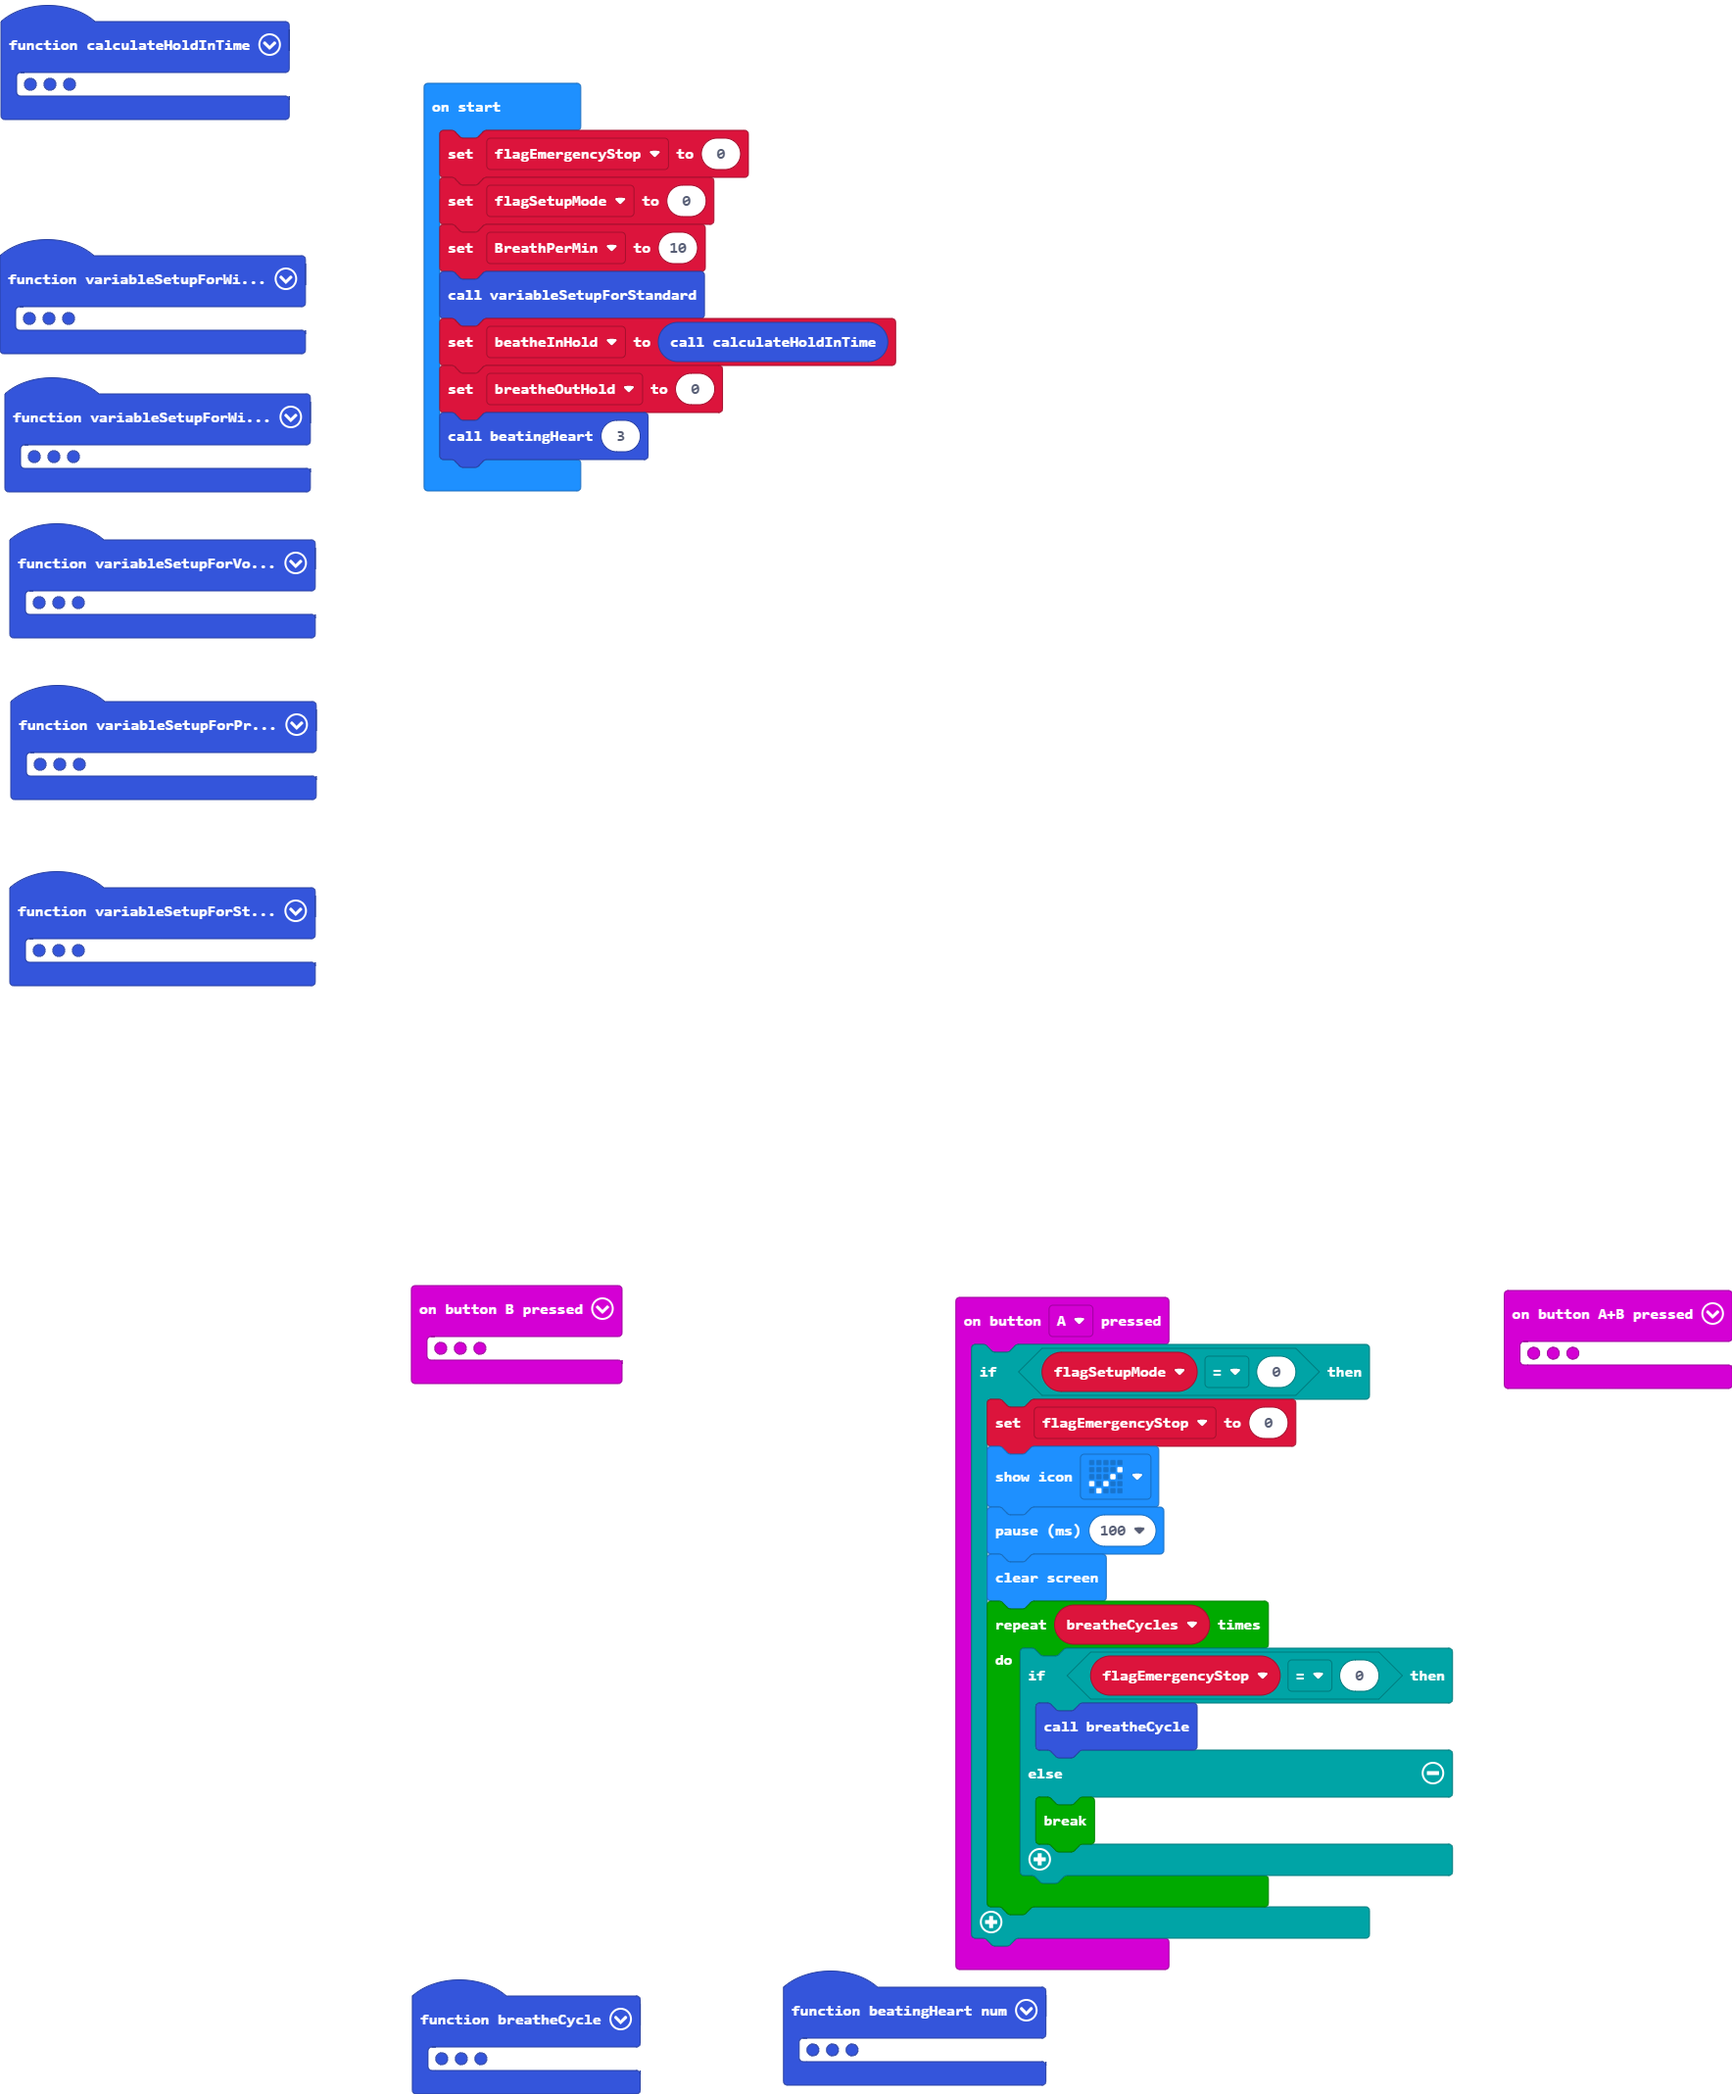
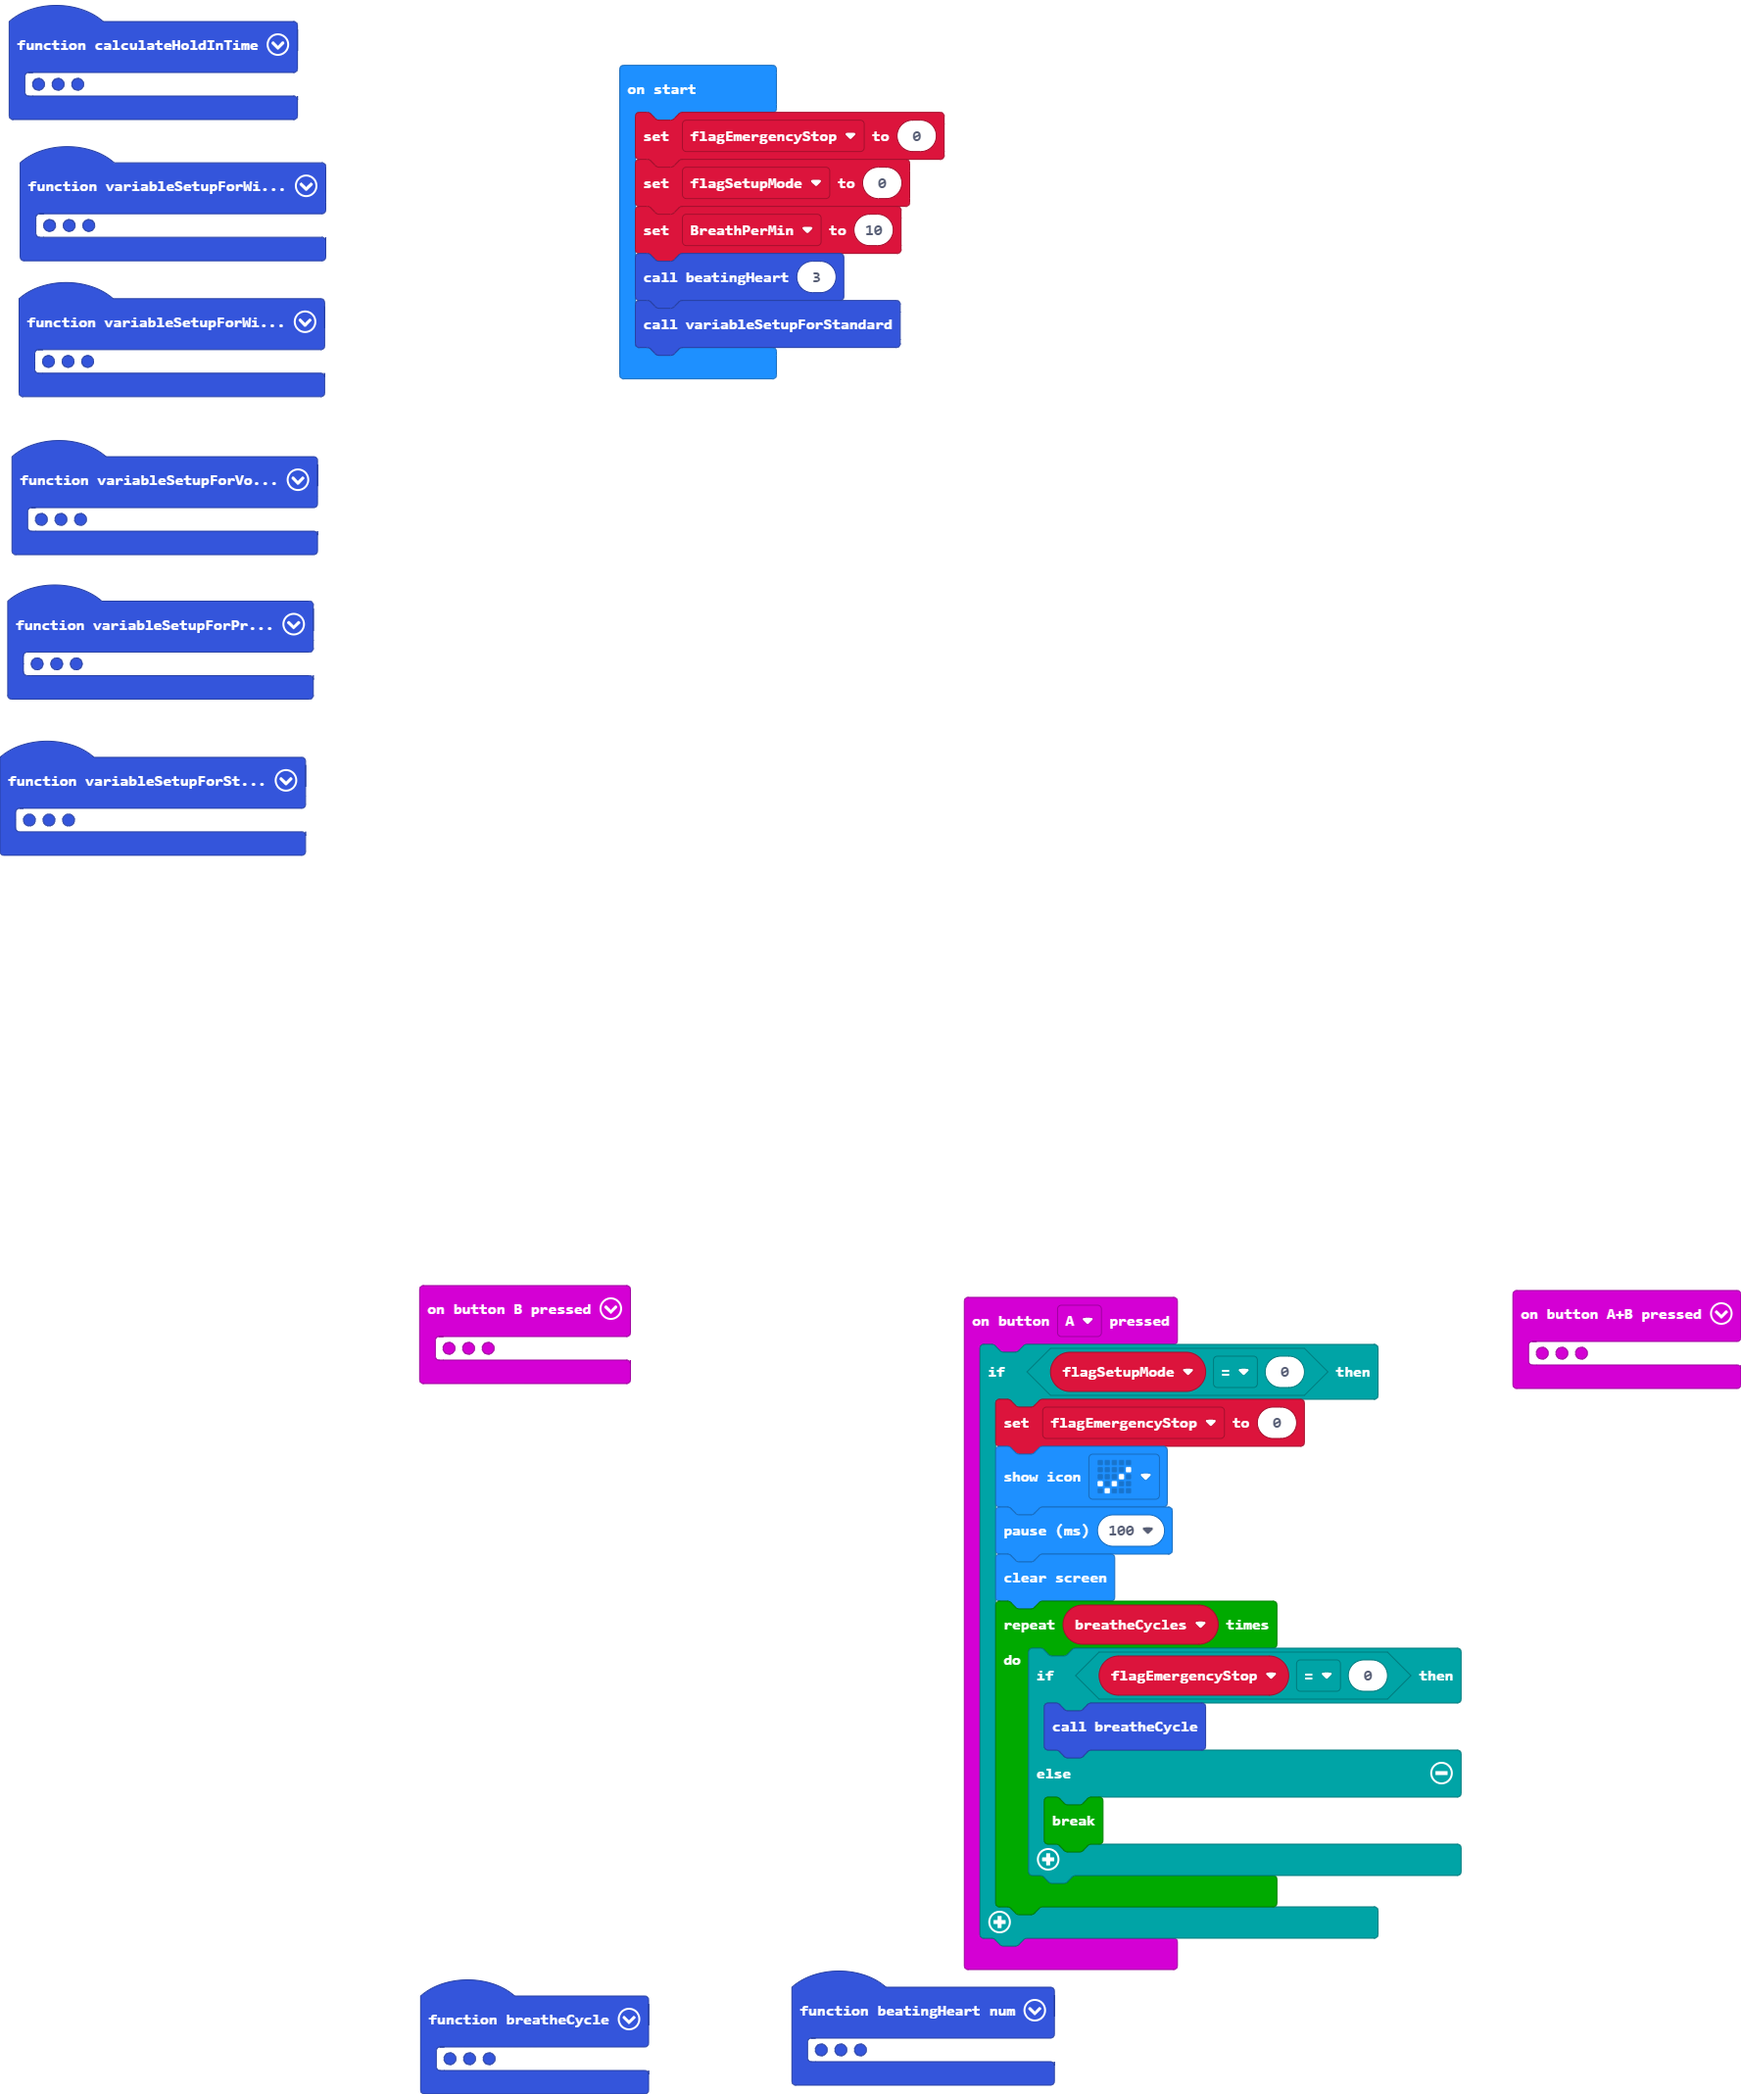
cleaned code for variable setup

diff --git a/main.ts b/main.ts
@@ -14,6 +14,8 @@ function variableSetupForWithoutBag () {
     breatheOutTime = 1.5
     breatheInSpeed = 20
     breatheOutSpeed = 20
+    beatheInHold = 1
+    breatheOutHold = 0
     breatheCycles = 5
 }
 function variableSetupForPressureTest () {
@@ -21,6 +23,8 @@ function variableSetupForPressureTest () {
     breatheOutTime = 1
     breatheInSpeed = 50
     breatheOutSpeed = 20
+    beatheInHold = 2
+    breatheOutHold = 0
     breatheCycles = 3
 }
 input.onButtonPressed(Button.A, function () {
@@ -48,6 +52,8 @@ function variableSetupForStandard () {
     breatheOutTime = 1.2
     breatheInSpeed = 35
     breatheOutSpeed = 20
+    beatheInHold = calculateHoldInTime()
+    breatheOutHold = 0
     breatheCycles = 30
 }
 function variableSetupForWithBagNoLoad () {
@@ -56,6 +62,8 @@ function variableSetupForWithBagNoLoad () {
     breatheInSpeed = 35
     breatheOutSpeed = 20
     breatheCycles = 5
+    beatheInHold = 1
+    breatheOutHold = 0
 }
 input.onButtonPressed(Button.AB, function () {
     if (flagSetupMode == 0) {
@@ -93,24 +101,24 @@ function variableSetupForVolumeTest () {
     breatheOutTime = 1.6
     breatheInSpeed = 35
     breatheOutSpeed = 20
+    beatheInHold = 0.2
+    breatheOutHold = 0
     breatheCycles = 9
 }
 let OneBreathTime = 0
 let time_in_plus_out = 0
 let breatheCycles = 0
+let breatheOutHold = 0
 let breatheOutTime = 0
 let breatheOutSpeed = 0
+let beatheInHold = 0
 let breatheInTime = 0
 let breatheInSpeed = 0
-let breatheOutHold = 0
-let beatheInHold = 0
 let BreathPerMin = 0
 let flagSetupMode = 0
 let flagEmergencyStop = 0
 flagEmergencyStop = 0
 flagSetupMode = 0
 BreathPerMin = 10
-variableSetupForStandard()
-beatheInHold = calculateHoldInTime()
-breatheOutHold = 0
 beatingHeart(3)
+variableSetupForStandard()
